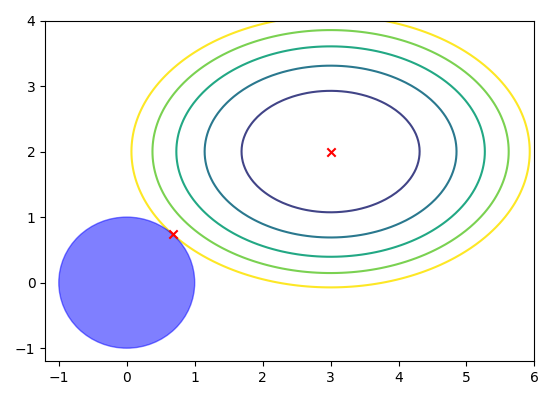
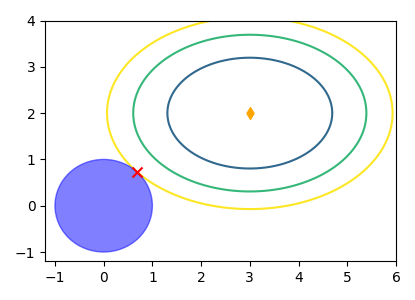
add quad_norm.png, update contours.png to be smaller (3 in height), update README.rst text

Changed region(s): [[0.0289, 0.03, 0.9831, 0.96], [0.5783, 0.36, 0.6361, 0.42]]

diff --git a/contour_plot.py b/contour_plot.py
@@ -11,6 +11,7 @@ Script should be run from the terminal. Pass --help for usage.
 # pylint: disable=import-error
 import argparse
 from functools import partial
+import matplotlib
 import matplotlib.pyplot as plt
 from matplotlib.patches import Circle
 import numpy as np
@@ -84,7 +85,7 @@ def css2tuple(s):
 
 
 def exec_main(
-    min_point=(2, 3), threshold=1., fig_height=(6.4, 4.8),
+    min_point=(3, 2), threshold=1., fig_height=3.,
     n_samples=100, file_name="contours.png"
 ):
     """Main executing method of the that drives all the computations.
@@ -93,11 +94,11 @@ def exec_main(
 
     Parameters
     ----------
-    min_point : tuple, default=(2, 3)
+    min_point : tuple, default=(3, 2)
         Minimizer of the unconstrained problem.
     threshold : float, default=1.
         Maximum 2-norm of the constrained solution.
-    fig_height : float, default=(6.4, 4.8)
+    fig_height : float, default=3.
         Height of the resulting figure. The actual (width, height) of the
         figure is (2 * x1 + 1.2 * threshold, 2 * x2 + 1.2 * threshold) scaled
         so that the height is fig_height.
@@ -151,7 +152,12 @@ def exec_main(
         Circle((0, 0), radius=threshold, alpha=0.5, color="blue", zorder=10)
     )
     # plot the optimal unconstrained and constrained points (plot on top)
-    ax.scatter([x1, x_hat[0]], [x2, x_hat[1]], marker="x", c="red", zorder=20)
+    ax.scatter(x1, x2, marker="d", c="orange", zorder=20)
+    ax.scatter(
+        x_hat[0], x_hat[1], marker="x",
+        s=(1.2 * matplotlib.rcParams["lines.markersize"]) ** 2,
+        c="red", zorder=20
+    )
     # compute levels based on number of xticks. last level is objective value
     levels = np.linspace(
         0, quad_func(x_hat), num=(1 + ax.get_xticks().size) // 2
@@ -192,7 +198,7 @@ def main(args=None):
         "-t", "--threshold", type=p_float, default=1., help=_HELP_THRESHOLD
     )
     arp.add_argument(
-        "-H", "--fig-height", type=p_float, default=4., help=_HELP_FIG_HEIGHT
+        "-H", "--fig-height", type=p_float, default=3., help=_HELP_FIG_HEIGHT
     )
     arp.add_argument(
         "-n", "--n-samples", type=p_int, default=100, help=_HELP_N_SAMPLES

diff --git a/README.rst b/README.rst
@@ -16,31 +16,15 @@ using the `NumPy C API`__.
 
 .. __: https://numpy.org/doc/stable/reference/c-api/index.html
 
+Here's a toy norm-constrained convex optimization problem and a plot of its
+solution against the objective's minimum.
 
-A sentiment
------------
+|problem| |contours|
 
-.. code:: c
+.. |problem| image:: https://raw.githubusercontent.com/phetdam/phetdam/master/
+   quad_norm.png
+   :alt: quad_norm.png
 
-   /* sentiment.c */
-
-   #include <stdio.h>
-   #include <stdlib.h>
-
-   #define xor_boolean(x, y) !(((x) ^ (y)) && ((x) < (y)))
-
-   char const *int2str(int i) {
-     return !i ? "false" : "true";
-   }
-
-   int main(int argc, char const * const *argv) {
-     printf("be %s to yourself\n", int2str(xor_boolean(5, 3)));
-     return EXIT_SUCCESS;
-   }
-
-.. code:: bash
-
-   gcc -o sentiment sentiment.c && ./sentiment
-
-.. image:: https://raw.githubusercontent.com/phetdam/phetdam/master/contours.png
+.. |contours| image:: https://raw.githubusercontent.com/phetdam/phetdam/master/
+   contours.png
    :alt: contours.png
